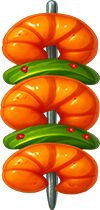
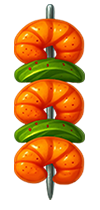
[Fix] booster tương tác với obstacle mới

diff --git a/Assets/_MyGame/SkewerJam/Scripts/Gameplay/Features/Utils/TutorialManager.cs b/Assets/_MyGame/SkewerJam/Scripts/Gameplay/Features/Utils/TutorialManager.cs
@@ -311,41 +311,41 @@ namespace MyGame.SkewerJam.Gameplay
         }
 
 #if UNITY_EDITOR
-        private void Update()
-        {
-            //     if (Input.GetKeyDown(KeyCode.Alpha1))
-            //     {
-            //         ShowPopupTutorial(TutorialType.BoosterAddPlate);
-            //     }
-            //     if (Input.GetKeyDown(KeyCode.Alpha2))
-            //     {
-            //         ShowPopupTutorial(TutorialType.PrimaryGrill_Single);
-            //     }
-            //     if (Input.GetKeyDown(KeyCode.Alpha3))
-            //     {
-            //         ShowPopupTutorial(TutorialType.Item_Bomb);
-            //     }
-            //     if (Input.GetKeyDown(KeyCode.Alpha4))
-            //     {
-            //         ShowPopupTutorial(TutorialType.Obstacle_Octochef_1);
-            //     }
-            if (Input.GetKeyDown(KeyCode.Alpha5))
-            {
-                ShowPopupTutorial(TutorialType.PrimaryGrill_Ice);
-            }
-            if (Input.GetKeyDown(KeyCode.Alpha6))
-            {
-                ShowPopupTutorial(TutorialType.PrimaryGrill_Shutter);
-            }
-            if (Input.GetKeyDown(KeyCode.Alpha7))
-            {
-                ShowPopupTutorial(TutorialType.Obstacle_LockArea);
-            }
-            if (Input.GetKeyDown(KeyCode.Alpha8))
-            {
-                ShowPopupTutorial(TutorialType.PrimaryGrill_LockAndKey);
-            }
-        }
+        // private void Update()
+        // {
+        //     //     if (Input.GetKeyDown(KeyCode.Alpha1))
+        //     //     {
+        //     //         ShowPopupTutorial(TutorialType.BoosterAddPlate);
+        //     //     }
+        //     //     if (Input.GetKeyDown(KeyCode.Alpha2))
+        //     //     {
+        //     //         ShowPopupTutorial(TutorialType.PrimaryGrill_Single);
+        //     //     }
+        //     //     if (Input.GetKeyDown(KeyCode.Alpha3))
+        //     //     {
+        //     //         ShowPopupTutorial(TutorialType.Item_Bomb);
+        //     //     }
+        //     //     if (Input.GetKeyDown(KeyCode.Alpha4))
+        //     //     {
+        //     //         ShowPopupTutorial(TutorialType.Obstacle_Octochef_1);
+        //     //     }
+        //     if (Input.GetKeyDown(KeyCode.Alpha5))
+        //     {
+        //         ShowPopupTutorial(TutorialType.PrimaryGrill_Ice);
+        //     }
+        //     if (Input.GetKeyDown(KeyCode.Alpha6))
+        //     {
+        //         ShowPopupTutorial(TutorialType.PrimaryGrill_Shutter);
+        //     }
+        //     if (Input.GetKeyDown(KeyCode.Alpha7))
+        //     {
+        //         ShowPopupTutorial(TutorialType.Obstacle_LockArea);
+        //     }
+        //     if (Input.GetKeyDown(KeyCode.Alpha8))
+        //     {
+        //         ShowPopupTutorial(TutorialType.PrimaryGrill_LockAndKey);
+        //     }
+        // }
 #endif
     }
 

diff --git a/Assets/_MyGame/SkewerJam/Scripts/Gameplay/Command/SelectItemCommand.cs b/Assets/_MyGame/SkewerJam/Scripts/Gameplay/Command/SelectItemCommand.cs
@@ -41,7 +41,7 @@ namespace MyGame.SkewerJam.Gameplay.Command
         private async UniTask UndoAsync()
         {
             await TryUndoPrimaryGrill();
-
+            await TryUndoGrillManager();
             // nhảy item về vị trí cũ
             _item.Moving = false;
             _item.SetLockState(false);
@@ -69,6 +69,15 @@ namespace MyGame.SkewerJam.Gameplay.Command
             if (grill != null)
             {
                 await grill.UndoUpdateSubGrills(_preGrillData);
+            }
+        }
+
+        private async UniTask TryUndoGrillManager()
+        {
+            var grillManager = GameController.Instance.GameLogicHandler.GrillManager;
+            foreach (var grill in grillManager.ListGrills)
+            {
+                await grill.Undo();
             }
         }
 

diff --git a/Assets/Scripts/Gameplay/Entities/Grills/PrimaryGrillShutter.cs b/Assets/Scripts/Gameplay/Entities/Grills/PrimaryGrillShutter.cs
@@ -60,4 +60,21 @@ public class PrimaryGrillShutter : PrimaryGrill
     {
 
     }
+
+    public override bool CanShuffle()
+    {
+        return false;
+    }
+
+    public override async UniTask Undo()
+    {
+        moveCount--;
+        if (moveCount < 0)
+        {
+            moveCount = MoveToChangeState - 1;
+            isClosed = !isClosed;
+            SetLockItems(isClosed);
+            visualShutter.SetUpShutter(isClosed);
+        }
+    }
 }

diff --git a/Assets/Scripts/Gameplay/Entities/PrimaryGrill.cs b/Assets/Scripts/Gameplay/Entities/PrimaryGrill.cs
@@ -1,6 +1,7 @@
 using System;
 using System.Collections.Generic;
 using System.Linq;
+using System.Threading.Tasks;
 using Cysharp.Threading.Tasks;
 using DG.Tweening;
 using Gameplay.BoosteeManagement;
@@ -815,6 +816,11 @@ namespace Gameplay.Entities
             }
 
 
+
+        }
+
+        public virtual async UniTask Undo()
+        {
 
         }
     }
